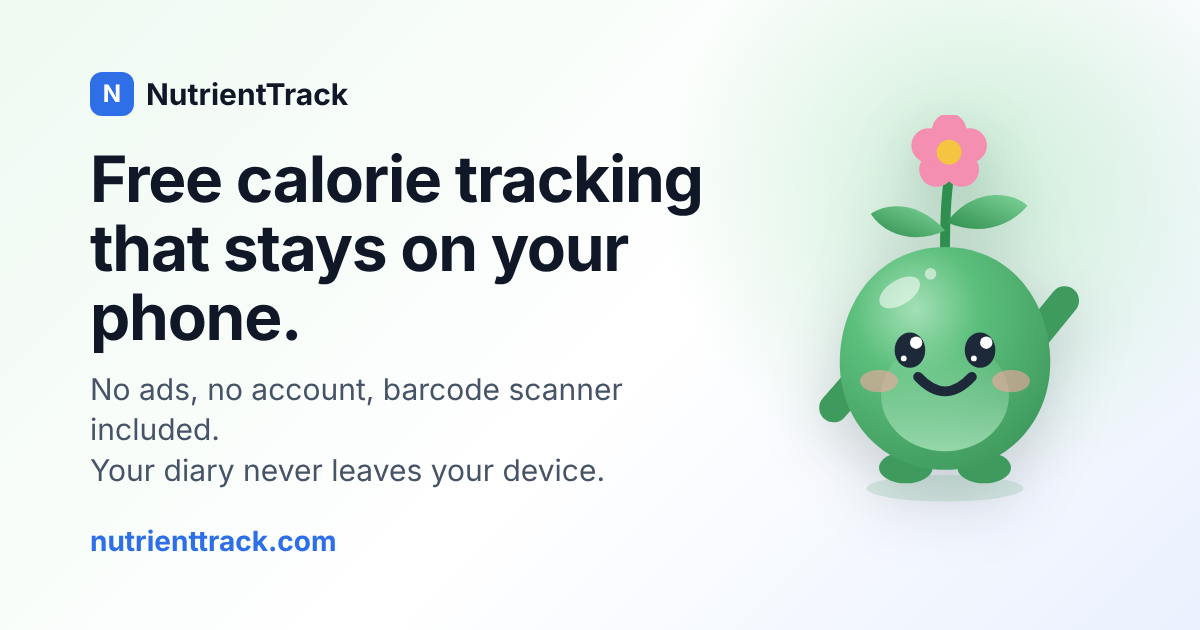
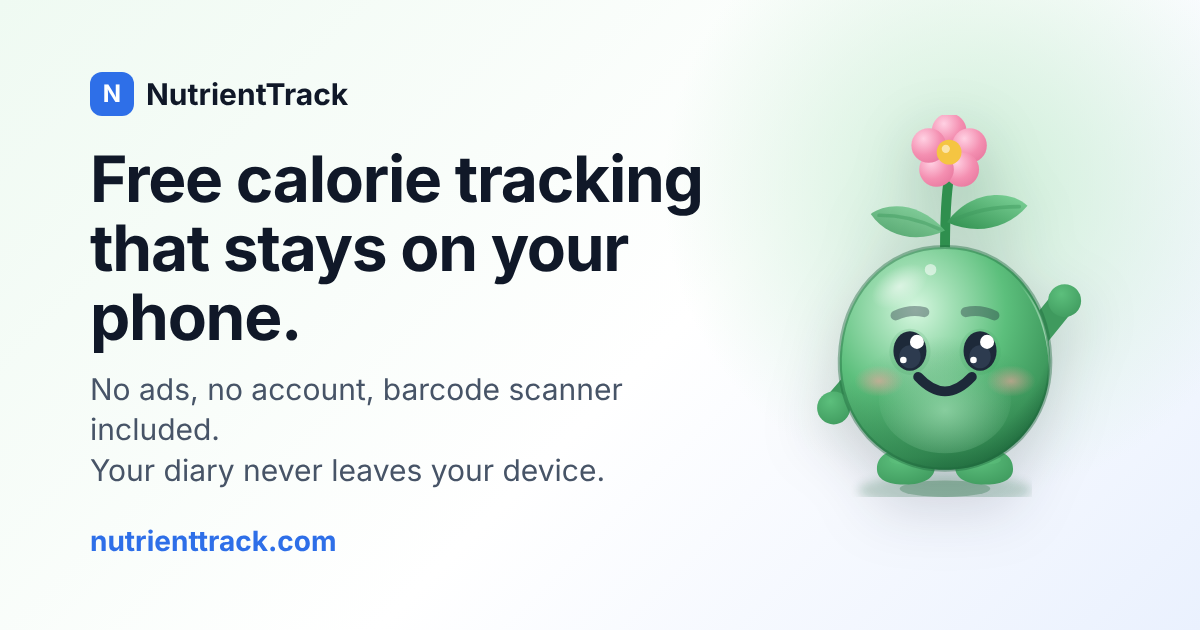
Pip polish, phase 1b and 3: one light rig, one drawing
Five-stop body gradient, ambient occlusion, specular and rim light, contact shadow, iris depth, and the same light on hands, feet, bud and petals. scripts/brand/pip.mjs is now generated from Mascot.tsx by export-pip.mjs, so the app icons and share image are the diary Pip; both regenerated.

Claude-Session: https://claude.ai/code/session_018dDpVciDfWNjhk2ttUyYo2

Changed region(s): [[0.6783, 0.3317, 0.8942, 0.8143], [0.74, 0.181, 0.8325, 0.2714]]

diff --git a/src/components/Mascot.tsx b/src/components/Mascot.tsx
@@ -5,7 +5,7 @@ import type { PipGrowth, PipStage } from '../lib/pipGrowth'
 import { Icon } from './Icon'
 
 /** What grows out of Pip's head at each stage: a sprout, a seedling, a bud, a flower, then a flower with a glow. */
-function PipCrown({ stage, leafFill }: { stage: PipStage; leafFill: { fill: string } }) {
+function PipCrown({ stage, leafFill, petalFill }: { stage: PipStage; leafFill: { fill: string }; petalFill: { fill: string } }) {
   if (stage === 0) return <>
     <path className="pip-stem" d="M40 17 C40 13 40 11 41 8" />
     <path className="pip-leaf" style={leafFill} d="M41 9 C45 3 53 3 56 6 C52 11 46 12 41 9 Z" />
@@ -24,11 +24,12 @@ function PipCrown({ stage, leafFill }: { stage: PipStage; leafFill: { fill: stri
     {stage === 1 && <path className="pip-leaf" style={leafFill} d="M41 3 C42 -3 48 -6 52 -5 C51 0 46 4 41 3 Z" />}
     {stage === 2 && <>
       <path className="pip-leaf pip-leaf-small" style={leafFill} d="M41 1 C39 -2 39 -5 41 -6 C43 -5 43 -2 41 1 Z" />
-      <ellipse className="pip-bud" cx="41" cy="-7" rx="4" ry="5.5" />
+      <ellipse className="pip-bud" style={petalFill} cx="41" cy="-7" rx="4" ry="5.5" />
     </>}
     {stage >= 3 && <g className="pip-flower">
-      {[0, 72, 144, 216, 288].map((angle) => <circle key={angle} className="pip-petal" cx={41 + 5.2 * Math.sin((angle * Math.PI) / 180)} cy={-7 - 5.2 * Math.cos((angle * Math.PI) / 180)} r="4.2" />)}
+      {[0, 72, 144, 216, 288].map((angle) => <circle key={angle} className="pip-petal" style={petalFill} cx={41 + 5.2 * Math.sin((angle * Math.PI) / 180)} cy={-7 - 5.2 * Math.cos((angle * Math.PI) / 180)} r="4.2" />)}
       <circle className="pip-flower-center" cx="41" cy="-7" r="3" />
+      <circle className="pip-shine" cx="40.2" cy="-7.8" r="1" />
     </g>}
   </>
 }
@@ -108,6 +109,11 @@ export function PipFigure({ mood, size = 56, stage = 0, reaction = null, onPoke,
     : mood === 'calm' ? ['M28 33 Q31.5 32 35 32.6', 'M45 32.6 Q48.5 32 52 33']
     : ['M28 32.6 Q31.5 31 35 31.8', 'M45 31.8 Q48.5 31 52 32.6']
   const cheekFill = { fill: `url(#${id}-cheek)` }
+  const aoFill = { fill: `url(#${id}-ao)` }
+  const specFill = { fill: `url(#${id}-spec)` }
+  const rimFill = { fill: `url(#${id}-rim)` }
+  const limbFill = { fill: `url(#${id}-limb)` }
+  const petalFill = { fill: `url(#${id}-petal)` }
   const bodyFill = { fill: `url(#${id}-body)` }
   const bellyFill = { fill: `url(#${id}-belly)` }
   const leafFill = { fill: `url(#${id}-leaf)` }
@@ -115,15 +121,40 @@ export function PipFigure({ mood, size = 56, stage = 0, reaction = null, onPoke,
   return (
     <svg className={`pip pip-${mood} pip-stage-${stage} pip-tier-${tier} ${poked ? 'pip-poked' : ''} ${reaction ? `pip-react pip-react-${reaction}` : ''}`} key={poked} ref={svgRef} viewBox="0 -16 80 96" width={size} height={(size * 96) / 80} aria-hidden="true" focusable="false" onPointerDown={startPress} onPointerUp={endPress} onPointerLeave={cancelPress} onPointerCancel={cancelPress} onContextMenu={(event) => event.preventDefault()}>
       <defs>
+        {/* One light rig for every part: key light upper left, soft fill, rim on the right, occlusion at the ground. */}
         <radialGradient id={`${id}-body`} cx="36%" cy="28%" r="78%">
-          <stop offset="0" style={{ stopColor: 'var(--pip-belly)' }} />
-          <stop offset="0.38" style={{ stopColor: 'var(--pip-body)' }} />
+          <stop offset="0" style={{ stopColor: 'var(--pip-light)' }} />
+          <stop offset="0.22" style={{ stopColor: 'var(--pip-belly)' }} />
+          <stop offset="0.55" style={{ stopColor: 'var(--pip-body)' }} />
+          <stop offset="0.85" style={{ stopColor: 'var(--pip-shade)' }} />
+          <stop offset="1" style={{ stopColor: 'var(--pip-deep)' }} />
+        </radialGradient>
+        <radialGradient id={`${id}-ao`} cx="50%" cy="100%" r="60%">
+          <stop offset="0" style={{ stopColor: 'var(--pip-deep)', stopOpacity: 0.55 }} />
+          <stop offset="1" style={{ stopColor: 'var(--pip-deep)', stopOpacity: 0 }} />
+        </radialGradient>
+        <radialGradient id={`${id}-belly`} cx="50%" cy="60%" r="55%">
+          <stop offset="0" style={{ stopColor: 'var(--pip-belly)', stopOpacity: 0.7 }} />
+          <stop offset="1" style={{ stopColor: 'var(--pip-belly)', stopOpacity: 0 }} />
+        </radialGradient>
+        <radialGradient id={`${id}-spec`} cx="50%" cy="50%" r="50%">
+          <stop offset="0" style={{ stopColor: 'var(--pip-glint)', stopOpacity: 1 }} />
+          <stop offset="0.45" style={{ stopColor: 'var(--pip-glint)', stopOpacity: 0.55 }} />
+          <stop offset="1" style={{ stopColor: 'var(--pip-glint)', stopOpacity: 0 }} />
+        </radialGradient>
+        <linearGradient id={`${id}-rim`} x1="0" y1="0" x2="1" y2="0">
+          <stop offset="0" style={{ stopColor: 'var(--pip-light)', stopOpacity: 0 }} />
+          <stop offset="1" style={{ stopColor: 'var(--pip-light)', stopOpacity: 0.75 }} />
+        </linearGradient>
+        <radialGradient id={`${id}-limb`} cx="40%" cy="30%" r="80%">
+          <stop offset="0" style={{ stopColor: 'var(--pip-body)' }} />
           <stop offset="1" style={{ stopColor: 'var(--pip-shade)' }} />
         </radialGradient>
-        <linearGradient id={`${id}-belly`} x1="0" y1="0" x2="0" y2="1">
-          <stop offset="0" style={{ stopColor: 'var(--pip-belly)', stopOpacity: 0 }} />
-          <stop offset="1" style={{ stopColor: 'var(--pip-belly)', stopOpacity: 0.85 }} />
-        </linearGradient>
+        <radialGradient id={`${id}-petal`} cx="35%" cy="30%" r="80%">
+          <stop offset="0" style={{ stopColor: 'var(--pip-petal-light)' }} />
+          <stop offset="0.6" style={{ stopColor: 'var(--pip-petal)' }} />
+          <stop offset="1" style={{ stopColor: 'var(--pip-bud)' }} />
+        </radialGradient>
         <radialGradient id={`${id}-halo`} cx="50%" cy="50%" r="50%">
           <stop offset="0" style={{ stopColor: 'var(--pip-halo)', stopOpacity: 0.32 }} />
           <stop offset="0.6" style={{ stopColor: 'var(--pip-halo)', stopOpacity: 0.14 }} />
@@ -140,7 +171,8 @@ export function PipFigure({ mood, size = 56, stage = 0, reaction = null, onPoke,
         </linearGradient>
       </defs>
       {stage === 4 && <circle className="pip-halo" style={{ fill: `url(#${id}-halo)` }} cx="40" cy="36" r="44" />}
-      <ellipse className="pip-shadow" cx="40" cy="74.5" rx="20" ry="3.4" filter={`url(#${id}-blur)`} />
+      <ellipse className="pip-shadow" cx="40" cy="75" rx="21" ry="4" filter={`url(#${id}-blur)`} />
+      <ellipse className="pip-shadow pip-shadow-contact" cx="40" cy="74.6" rx="11" ry="2" />
       {mood === 'cheer' && <path className="pip-dust pip-dust-left" d="M22 70 q-5 -1 -8 2" />}
       {mood === 'cheer' && <path className="pip-dust pip-dust-right" d="M58 70 q5 -1 8 2" />}
       {mood === 'cheer' && <g className="pip-confetti" aria-hidden="true">
@@ -149,29 +181,30 @@ export function PipFigure({ mood, size = 56, stage = 0, reaction = null, onPoke,
         ))}
       </g>}
       <g className="pip-body-group">
-        <g className="pip-crown"><PipCrown stage={stage} leafFill={leafFill} /></g>
+        <g className="pip-crown"><PipCrown stage={stage} leafFill={leafFill} petalFill={petalFill} /></g>
         {/* Arms: stubby capsules behind the body, with a slightly darker underside. */}
         {armsUp ? <>
-          <g className="pip-cheer-arm pip-cheer-left"><path className="pip-arm pip-arm-still" d="M21 36 L13.5 25.5" /><circle className="pip-hand" cx="13" cy="24.8" r="4" /></g>
-          <g className="pip-cheer-arm pip-cheer-right"><path className="pip-arm pip-arm-still" d="M59 36 L66.5 25.5" /><circle className="pip-hand" cx="67" cy="24.8" r="4" /></g>
+          <g className="pip-cheer-arm pip-cheer-left"><path className="pip-arm pip-arm-still" d="M21 36 L13.5 25.5" /><circle className="pip-hand" style={limbFill} cx="13" cy="24.8" r="4" /></g>
+          <g className="pip-cheer-arm pip-cheer-right"><path className="pip-arm pip-arm-still" d="M59 36 L66.5 25.5" /><circle className="pip-hand" style={limbFill} cx="67" cy="24.8" r="4" /></g>
         </> : <>
-          <g className="pip-arm-left"><path className="pip-arm" d="M20 47 L13.5 54.5" /><circle className="pip-hand" cx="13" cy="55" r="4" /></g>
+          <g className="pip-arm-left"><path className="pip-arm" d="M20 47 L13.5 54.5" /><circle className="pip-hand" style={limbFill} cx="13" cy="55" r="4" /></g>
           {waving
-            ? <g className="pip-wave-arm"><path className="pip-arm pip-arm-still" d="M60 40 L68.5 29.5" /><circle className="pip-hand" cx="69" cy="29" r="4" /></g>
-            : <g className="pip-arm-right"><path className="pip-arm" d="M60 47 L66.5 54.5" /><circle className="pip-hand" cx="67" cy="55" r="4" /></g>}
+            ? <g className="pip-wave-arm"><path className="pip-arm pip-arm-still" d="M60 40 L68.5 29.5" /><circle className="pip-hand" style={limbFill} cx="69" cy="29" r="4" /></g>
+            : <g className="pip-arm-right"><path className="pip-arm" d="M60 47 L66.5 54.5" /><circle className="pip-hand" style={limbFill} cx="67" cy="55" r="4" /></g>}
         </>}
         {/* Feet */}
-        <path className="pip-foot" d="M23.5 69.8 C23.5 66.2 27 65 30.5 65.2 C34.5 65.4 37.5 67 37.5 69.6 C37.5 72.2 34.5 73.6 30.5 73.6 C27 73.6 23.5 72.8 23.5 69.8 Z" />
-        <path className="pip-foot" d="M42.5 69.6 C42.5 67 45.5 65.4 49.5 65.2 C53 65 56.5 66.2 56.5 69.8 C56.5 72.8 53 73.6 49.5 73.6 C45.5 73.6 42.5 72.2 42.5 69.6 Z" />
+        <path className="pip-foot" style={limbFill} d="M23.5 69.8 C23.5 66.2 27 65 30.5 65.2 C34.5 65.4 37.5 67 37.5 69.6 C37.5 72.2 34.5 73.6 30.5 73.6 C27 73.6 23.5 72.8 23.5 69.8 Z" />
+        <path className="pip-foot" style={limbFill} d="M42.5 69.6 C42.5 67 45.5 65.4 49.5 65.2 C53 65 56.5 66.2 56.5 69.8 C56.5 72.8 53 73.6 49.5 73.6 C45.5 73.6 42.5 72.2 42.5 69.6 Z" />
         <ellipse className="pip-foot-shine" cx="29" cy="67.6" rx="2.6" ry="1" />
         <ellipse className="pip-foot-shine" cx="51" cy="67.6" rx="2.6" ry="1" />
         {/* Body: a rounded pea, a touch wider at the bottom, lit from the top left. */}
         <path className="pip-body" style={bodyFill} d="M40 16 C55 16 65 28 65.5 43 C66 58 55 70 40 70 C25 70 14 58 14.5 43 C15 28 25 16 40 16 Z" />
-        <ellipse className="pip-belly" style={bellyFill} cx="40" cy="52" rx="15.5" ry="13.5" />
+        <path className="pip-ao" style={aoFill} d="M40 16 C55 16 65 28 65.5 43 C66 58 55 70 40 70 C25 70 14 58 14.5 43 C15 28 25 16 40 16 Z" />
+        <ellipse className="pip-belly" style={bellyFill} cx="40" cy="53" rx="16" ry="13" />
+        <path className="pip-rim" style={rimFill} d="M57 24 C63 30 66 40 65 50 C66.5 40 64 31 58.5 25.5 Z" />
+        <ellipse className="pip-shine pip-spec" style={specFill} cx="29" cy="25.5" rx="7.5" ry="4.4" transform="rotate(-32 29 25.5)" />
+        <circle className="pip-shine" cx="36.5" cy="21.5" r="1.4" />
         <path className="pip-contour" d="M40 16 C55 16 65 28 65.5 43 C66 58 55 70 40 70 C25 70 14 58 14.5 43 C15 28 25 16 40 16 Z" />
-        <path className="pip-rim" d="M21.5 30 C23.5 23 29 18 36 16.8 C30.5 19.4 25.5 24 23.2 31.5 Z" />
-        <ellipse className="pip-shine" cx="30" cy="25.5" rx="3.6" ry="2" transform="rotate(-34 30 25.5)" />
-        <circle className="pip-shine" cx="35.8" cy="21.8" r="1.1" />
         {/* Face */}
         {dizzy ? <g className="pip-dizzy-eyes">
           <path className="pip-line" d="M28.5 38 L34.5 44 M34.5 38 L28.5 44" />
@@ -190,6 +223,8 @@ export function PipFigure({ mood, size = 56, stage = 0, reaction = null, onPoke,
           <g className="pip-glance"><g className="pip-look">
             <ellipse className="pip-eye" cx="31.5" cy="41.2" rx="4" ry="4.8" />
             <ellipse className="pip-eye" cx="48.5" cy="41.2" rx="4" ry="4.8" />
+            <ellipse className="pip-iris" cx="31.5" cy="42.6" rx="2.6" ry="2.8" />
+            <ellipse className="pip-iris" cx="48.5" cy="42.6" rx="2.6" ry="2.8" />
             <circle className="pip-eye-glint" cx="33.2" cy="39" r="1.7" />
             <circle className="pip-eye-glint" cx="50.2" cy="39" r="1.7" />
             <circle className="pip-eye-glint" cx="29.9" cy="43.4" r="0.8" />

diff --git a/src/styles.css b/src/styles.css
@@ -54,13 +54,16 @@
   /* Names kept for the insights stylesheet. */
   --muted-dark: #475467;
   /* Pip, the diary mascot, and the meal accents. */
+  --pip-light: #d6f7e0;
   --pip-body: #5cbf7c;
   --pip-shade: #3f9a5e;
+  --pip-deep: #1f6a3d;
   --pip-belly: #a3e0b6;
   --pip-leaf: #2f8f4e;
   --pip-leaf-light: #7fd49a;
   --pip-tongue: #e9768f;
   --pip-ink: #1d2939;
+  --pip-iris: #3b4a63;
   --pip-glint: #ffffff;
   --pip-cheek: #f6a5a0;
   --pip-heart: #ef5a8a;
@@ -68,6 +71,7 @@
   --pip-soft: #effaf2;
   --pip-line: #cdeed7;
   --pip-petal: #f48fb1;
+  --pip-petal-light: #ffd1e3;
   --pip-bud: #e8799f;
   --pip-flower-center: #f5c542;
   --pip-halo: #f5c542;
@@ -119,13 +123,16 @@
   --danger-soft: #2a1618;
   --carbs-soft: #251f45;
   --muted-dark: #cfd4dc;
+  --pip-light: #bdeccb;
   --pip-body: #4fae6c;
   --pip-shade: #36844f;
+  --pip-deep: #1b4f30;
   --pip-belly: #79c893;
   --pip-leaf: #4fae6c;
   --pip-leaf-light: #8ee0a8;
   --pip-tongue: #e26d88;
   --pip-ink: #0c111d;
+  --pip-iris: #3b4a63;
   --pip-glint: #f2f4f7;
   --pip-cheek: #e98585;
   --pip-heart: #ff7aa8;
@@ -133,6 +140,7 @@
   --pip-soft: #13261b;
   --pip-line: #24452f;
   --pip-petal: #f06292;
+  --pip-petal-light: #ffb3cc;
   --pip-bud: #d9618a;
   --pip-flower-center: #fac515;
   --pip-halo: #8ee0a8;
@@ -186,13 +194,16 @@
     --danger-soft: #2a1618;
     --carbs-soft: #251f45;
     --muted-dark: #cfd4dc;
+  --pip-light: #bdeccb;
   --pip-body: #4fae6c;
   --pip-shade: #36844f;
+  --pip-deep: #1b4f30;
   --pip-belly: #79c893;
   --pip-leaf: #4fae6c;
   --pip-leaf-light: #8ee0a8;
   --pip-tongue: #e26d88;
   --pip-ink: #0c111d;
+  --pip-iris: #3b4a63;
   --pip-glint: #f2f4f7;
   --pip-cheek: #e98585;
   --pip-heart: #ff7aa8;
@@ -200,6 +211,7 @@
   --pip-soft: #13261b;
   --pip-line: #24452f;
   --pip-petal: #f06292;
+  --pip-petal-light: #ffb3cc;
   --pip-bud: #d9618a;
   --pip-flower-center: #fac515;
   --pip-halo: #8ee0a8;
@@ -1308,19 +1320,22 @@ strong { font-weight: 600; }
 .mascot-action { margin-top: 4px; padding: 0; font-size: 13px; }
 .mascot-dismiss { flex: 0 0 auto; align-self: flex-start; margin-left: auto; width: 28px; height: 28px; border: 0; color: var(--muted); background: transparent; }
 .mascot-dismiss:hover { color: var(--ink); background: var(--surface); }
-.pip-shadow { fill: var(--pip-shade); opacity: .16; }
+.pip-shadow { fill: var(--pip-deep); opacity: .22; }
+.pip-shadow-contact { opacity: .3; animation: none; }
+.pip-iris { fill: var(--pip-iris); opacity: .55; }
+.pip-spec { opacity: 1; }
 .pip-body { fill: var(--pip-body); }
 .pip-arm { fill: none; stroke: var(--pip-shade); stroke-width: 6.4; stroke-linecap: round; }
 .pip-hand { fill: var(--pip-shade); }
 .pip-foot { fill: var(--pip-shade); }
 .pip-foot-shine { fill: var(--pip-body); opacity: .55; }
-.pip-contour { fill: none; stroke: var(--pip-shade); stroke-width: 1.4; opacity: .5; }
-.pip-rim { fill: var(--pip-glint); opacity: .28; }
+.pip-contour { fill: none; stroke: var(--pip-deep); stroke-width: 1.1; opacity: .45; }
+.pip-rim { opacity: .9; }
 .pip-eye-socket { fill: var(--pip-shade); opacity: .16; }
-.pip-brow { stroke-width: 1.5; opacity: .38; }
+.pip-brow { stroke-width: 1.5; opacity: .3; }
 .pip-brow.is-expressive { stroke-width: 1.9; opacity: .85; }
 /* Detail tiers: tiny Pips drop the highlights, big Pips get a finer contour. */
-.pip-tier-small .pip-shine, .pip-tier-small .pip-rim, .pip-tier-small .pip-eye-socket, .pip-tier-small .pip-foot-shine, .pip-tier-small .pip-vein { display: none; }
+.pip-tier-small .pip-shine:not(.pip-spec), .pip-tier-small .pip-rim, .pip-tier-small .pip-eye-socket, .pip-tier-small .pip-foot-shine, .pip-tier-small .pip-vein, .pip-tier-small .pip-iris, .pip-tier-small .pip-shadow-contact { display: none; }
 .pip-tier-small .pip-contour { stroke-width: 2; }
 .pip-tier-small .pip-brow { stroke-width: 2.4; }
 .pip-tier-large .pip-contour { stroke-width: 1; opacity: .42; }

diff --git a/scripts/brand/sheet/sheet.tsx b/scripts/brand/sheet/sheet.tsx
@@ -11,7 +11,18 @@ const params = new URLSearchParams(window.location.search)
 const theme = params.get('theme')
 if (theme) document.documentElement.setAttribute('data-theme', theme)
 
+/** ?export=1 renders only the variants export-pip.mjs reads, each tagged with data-variant. */
+function Export() {
+  return <div className="row">
+    <div data-variant="wave-flower"><PipFigure mood="wave" size={150} stage={3} /></div>
+    <div data-variant="wave-plain"><PipFigure mood="wave" size={150} stage={0} /></div>
+    <div data-variant="happy-flower"><PipFigure mood="happy" size={150} stage={3} /></div>
+    <div data-variant="cheer-flower"><PipFigure mood="cheer" size={150} stage={3} /></div>
+  </div>
+}
+
 function Sheet() {
+  if (params.get('export')) return <Export />
   return <div className="sheet">
     {[34, 56, 150].map((size) => <div key={size}>
       <h2>Moods at {size}px</h2>

diff --git a/CLAUDE.md b/CLAUDE.md
@@ -59,6 +59,10 @@ The browser holds the primary copy, and most users have no server copy at all be
 
[1 lines of base64/hex data omitted]
 
+## Pip
+
+Pip is drawn once, in `src/components/Mascot.tsx`, under one light rig (key light upper left, rim right, occlusion at the ground; colours only from the `--pip-*` tokens). `scripts/brand/pip.mjs` is generated from that drawing by `scripts/brand/export-pip.mjs` and feeds the app icons and share image (`scripts/brand/render.mjs`); never edit it by hand. `scripts/brand/contact-sheet.mjs` renders every mood, reaction and stage at three sizes in both themes; run it after any change to Pip and look at the result. Both scripts build `scripts/brand/sheet` with `vite build --config scripts/brand/vite.sheet.config.ts` first and need Playwright, which is not a project dependency.
+
 ## Recipe calorie calculator
 
 `/recipe-calories/` is a second Vite page (`recipe-calories/index.html`, `src/recipe/`) that shares the catalog, the describe-to-log matcher (`src/lib/describe.ts`) and the stylesheet. It stores nothing: the recipe lives in the page address (`#i=<lines>&s=<servings>`), and the copyable label (`src/lib/recipe.ts`) is inline-styled HTML with one credit link. The service worker leaves it to the network like the food pages, nginx serves it with `no-cache`, and it is listed in the sitemap.
